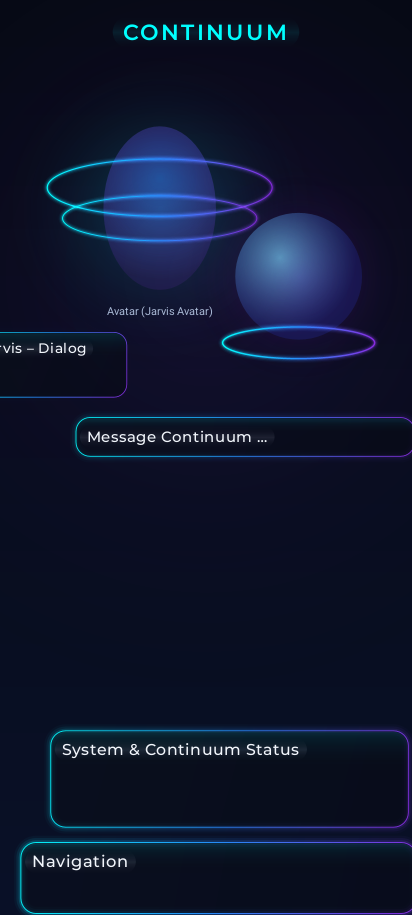
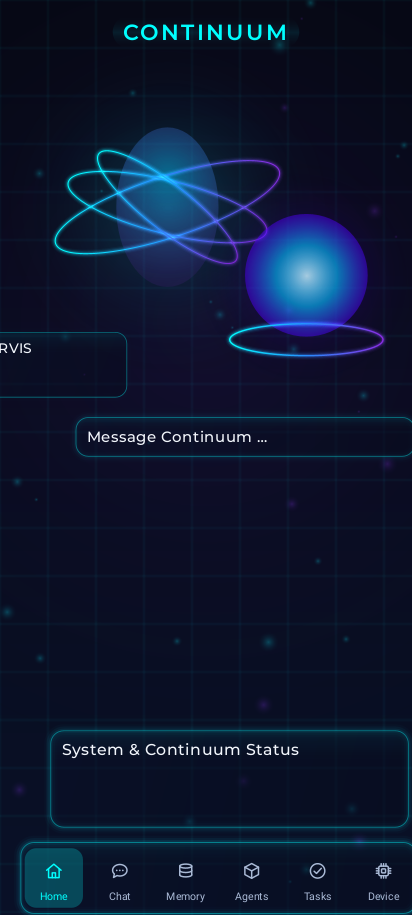
design: Review 1 – Navigation/Kacheln aus ref5, kompakte Kacheln, Vorschau neu, Doku/Testergebnisse (Jarvis* 20/20)

diff --git a/app/src/main/java/at/heinz/deviceai/ui/JarvisTiles.kt b/app/src/main/java/at/heinz/deviceai/ui/JarvisTiles.kt
@@ -26,6 +26,7 @@ object JarvisTiles {
 
     /** Draws tile content inside an already drawn glass card. */
     fun draw(p: ContinuumPainter, b: Box, tile: JarvisTile) {
+        if (b.width < 140f) return drawCompact(p, b, tile)
         val iconSize = minOf(b.height * .5f, 30f)
         val ix = b.left + 10f + iconSize / 2f; val cy = b.top + b.height / 2f
         ContinuumIcons.draw(p, tile.icon, ix, cy, iconSize, Fill.Solid(Colors.cyan), iconSize / 13f * 2.6f, .18f)
@@ -37,5 +38,52 @@ object JarvisTiles {
         p.drawText(JarvisShellRenderer.fit(p, second, sub, room), tx, cy + p.capHeight(sub) + 5f, sub,
             Fill.Solid(if (tile.displayText != null) Colors.cyanSoft else Colors.textSecondary))
         ContinuumIcons.draw(p, Icon.CHEVRON_RIGHT, b.right - 10f, cy, 10f, Fill.Solid(Colors.textSecondary), 1.1f)
+    }
+
+    /** Narrow tiles (Fold7 centre column): icon above label, no subtitle. */
+    private fun drawCompact(p: ContinuumPainter, b: Box, tile: JarvisTile) {
+        val title = JarvisDesign.Type.label
+        val iconSize = minOf(b.height * .42f, 26f)
+        val cx = b.centerX; val iy = b.top + b.height * .40f
+        ContinuumIcons.draw(p, tile.icon, cx, iy, iconSize, Fill.Solid(Colors.cyan), iconSize / 13f * 2.6f, .18f)
+        ContinuumIcons.draw(p, tile.icon, cx, iy, iconSize, Fill.Solid(Colors.cyan))
+        val text = tile.displayText ?: tile.label
+        p.drawText(JarvisShellRenderer.fit(p, text, title, b.width - 12f), cx, b.bottom - 9f, title, Fill.Solid(Colors.text), TextAlign.CENTER)
+    }
+
+    /** Navigation entries read from ref5 (rail) and ref4 (bottom nav). Presentation only. */
+    data class NavItem(val target: String, val label: String, val icon: Icon)
+    val railNav = listOf(NavItem("home", "Home", Icon.HOME), NavItem("chat", "Chat", Icon.CHAT), NavItem("memory", "Memory", Icon.DATABASE),
+        NavItem("logic", "Logic", Icon.ATOM), NavItem("research", "Research", Icon.SEARCH), NavItem("agents", "Agents", Icon.CUBE),
+        NavItem("tasks", "Tasks", Icon.CHECK_CIRCLE), NavItem("web", "Web", Icon.GLOBE), NavItem("learning", "Learning", Icon.BOOK),
+        NavItem("device", "Device Control", Icon.CPU), NavItem("system", "System Status", Icon.PULSE))
+    val bottomNav = listOf(railNav[0], railNav[1], railNav[2], railNav[5], railNav[6], NavItem("device", "Device", Icon.CPU))
+
+    fun drawRail(p: ContinuumPainter, b: Box, items: List<NavItem> = railNav, selected: Int = 0, labelled: Boolean = true) {
+        val rowH = minOf(44f, (b.height - 16f) / items.size)
+        val style = JarvisDesign.Type.nav
+        items.forEachIndexed { i, it ->
+            val top = b.top + 8f + i * rowH
+            val cy = top + rowH / 2f
+            if (i == selected) {
+                p.fillRoundRect(b.left + 6f, top + 2f, b.right - 6f, top + rowH - 2f, 10f, Fill.Solid(Argb.of(60, 0, 255, 255)))
+                p.strokeRoundRect(b.left + 6f, top + 2f, b.right - 6f, top + rowH - 2f, 10f, 1f, Fill.Solid(Colors.rim))
+            }
+            val ix = if (labelled) b.left + 22f else b.centerX
+            ContinuumIcons.draw(p, it.icon, ix, cy, 18f, Fill.Solid(if (i == selected) Colors.cyan else Colors.textSecondary))
+            if (labelled) p.drawText(JarvisShellRenderer.fit(p, it.label, style, b.right - ix - 24f), ix + 18f, cy + p.capHeight(style) / 2f, style,
+                Fill.Solid(if (i == selected) Colors.text else Colors.textSecondary))
+        }
+    }
+
+    fun drawBottomNav(p: ContinuumPainter, b: Box, items: List<NavItem> = bottomNav, selected: Int = 0) {
+        val w = b.width / items.size; val style = JarvisDesign.Type.caption
+        items.forEachIndexed { i, it ->
+            val cx = b.left + w * i + w / 2f
+            if (i == selected) p.fillRoundRect(cx - w / 2f + 4f, b.top + 6f, cx + w / 2f - 4f, b.bottom - 6f, 12f, Fill.Solid(Argb.of(60, 0, 255, 255)))
+            val c = if (i == selected) Colors.cyan else Colors.textSecondary
+            ContinuumIcons.draw(p, it.icon, cx, b.top + b.height * .4f, 20f, Fill.Solid(c))
+            p.drawText(JarvisShellRenderer.fit(p, it.label, style, w - 6f), cx, b.bottom - 14f, style, Fill.Solid(c), TextAlign.CENTER)
+        }
     }
 }

diff --git a/app/src/main/java/at/heinz/deviceai/ui/JarvisShellRenderer.kt b/app/src/main/java/at/heinz/deviceai/ui/JarvisShellRenderer.kt
@@ -54,6 +54,8 @@ object JarvisShellRenderer {
                 if (f.glow > .5f) JarvisDesign.Glow.STRONG else JarvisDesign.Glow.NORMAL, f.glow > .5f, f.alpha, native)
             when {
                 slot != null && content[slot] != null -> content[slot]!!.draw(p, box)
+                slot == Slot.NAV_RAIL -> JarvisTiles.drawRail(p, box, labelled = shell.rail != JarvisShellLayout.Rail.ICONS)
+                slot == Slot.BOTTOM_NAV -> JarvisTiles.drawBottomNav(p, box)
                 slot != null -> header(p, box, label(slot))
                 tileIndex < tiles.size -> JarvisTiles.draw(p, box, tiles[tileIndex])
             }

diff --git a/docs/DESIGN-SYSTEM.md b/docs/DESIGN-SYSTEM.md
@@ -83,3 +83,20 @@ GESCHÄTZT:
 - Bekannte Grenze: Die Transparenz wirkt auf den Kartenrand, nicht auf fremden Inhalt, weil der Painter keinen Ebenen-Alphawert hat.
 - Reduzierte Bewegung: `animatorScale` = `Settings.Global.ANIMATOR_DURATION_SCALE` übergeben. Bei 0 kommt sofort der Endzustand `REST`. Andere Werte strecken die Zeiten.
 - Treiber: Der Aufrufer (View/`ValueAnimator`/`Choreographer`) liefert `elapsedMs` und invalidiert. Die API hält keinen eigenen Zustand.
+
+## Review 1 (Kreativdirektor, 4.11.)
+- **Glas:**
+  - Panels #0A1128 @50 %, 1 px Cyan-Rand @40 %, Radius 14 dp.
+  - `JarvisGlassRenderer` (nur Android) ist das `GlassBackend` von `JarvisShellRenderer`:
+    - **API 31+ (Hardware-Canvas):** Backdrop-Blur über `RenderEffect.createBlurEffect` (24 dp, geschätzt) auf einer RenderNode-Kopie des Hintergrunds, je Panel per Clip.
+    - **API 33+:** Hintergrund als **ein** AGSL-`RuntimeShader` (Verlauf, unscharfes Cyan-Raster, Scanlines, Violett-Schleier) plus Bokeh; Rand-Glow als AGSL-SDF-Shader.
+    - **minSdk 26–30 und Software-Canvas:** portabler Fallback (halbtransparentes Glas, additive Rand-Striche).
+  - Die JVM-Vorschau kompiliert ohne Android-Klassen und zeigt **nur den Fallback**, also keinen Blur und kein AGSL.
+- **Hintergrund:** Verlauf #050814 → #0A1128, Raster 48 dp, Bokeh-Staub (deterministisch).
+- **Frame-Zeit:** Mit `JarvisShellView.frameLogging = true` (nur Debug) loggt die View alle 120 Frames unter dem Log-Tag `JarvisFrames` den Mittelwert und das Maximum des Frame-Abstands sowie die onDraw-Dauer. **Die Messung auf dem Fold7 steht noch aus.**
+- **Fold7 offen:** 3 Spalten 20/55/25 – beschriftete Navigation, Avatar mit Dialog und Kacheln 4 × 2, rechts System-Status, Agenten, Ablauf, Gedächtnis und Modell. Darunter eine Statusleiste über die volle Breite.
+- **Kacheln:**
+  - `JarvisTile(target, label, subtitle, icon, displayText?)` ist ein **reines Darstellungsmodell** und keine Datenschnittstelle.
+  - `JarvisTiles.reference` enthält die 8 Kacheln aus ref5. Navigation: `JarvisTiles.railNav` (Leiste aus ref5) und `bottomNav` (ref4).
+  - In schmalen Kacheln steht das Icon über dem Label.
+  - Die Vorschau zeigt nur Labels und Untertitel, keine Werte.

diff --git a/DESIGN_TEST_RESULTS.md b/DESIGN_TEST_RESULTS.md
@@ -10,3 +10,7 @@
 ## Prüfbericht-Auflagen und VIDEO-SPEC (4.11.2026)
 - `./gradlew :app:testDebugUnitTest --tests 'at.heinz.deviceai.ui.Jarvis*'` (inkl. compileDebugKotlin, also auch JarvisShellView): **JarvisMotionTest 12/12, JarvisShellLayoutTest 7/7 grün**.
 - Vorschau: `scripts/jarvis-design-preview.sh` (Java2D, Platzhalter-Inhalte). Ergebnis: `docs/design-screenshots/phone-hochformat-412x915.png`, `fold7-offen-884x760.png`, `tablet-quer-1280x800.png`, `phone-einflug-250ms.png` (Einflug-Zwischenstand), daneben ref2/ref4/ref5. Annäherung; kein Gerät/Emulator.
+
+## Review 1 (4.11.2026)
+- `--tests 'at.heinz.deviceai.ui.Jarvis*'` (inkl. compileDebugKotlin mit JarvisGlassRenderer/AGSL): **JarvisMotionTest 12/12, JarvisShellLayoutTest 8/8 grün**.
+- Vorschau neu gerendert (`docs/design-screenshots/`). Das ist der Java2D-**Fallback-Pfad**: Blur und AGSL-Glow sind darin NICHT sichtbar und nur angenähert. Frame-Zeit auf dem Gerät nicht gemessen (kein Fold7).
